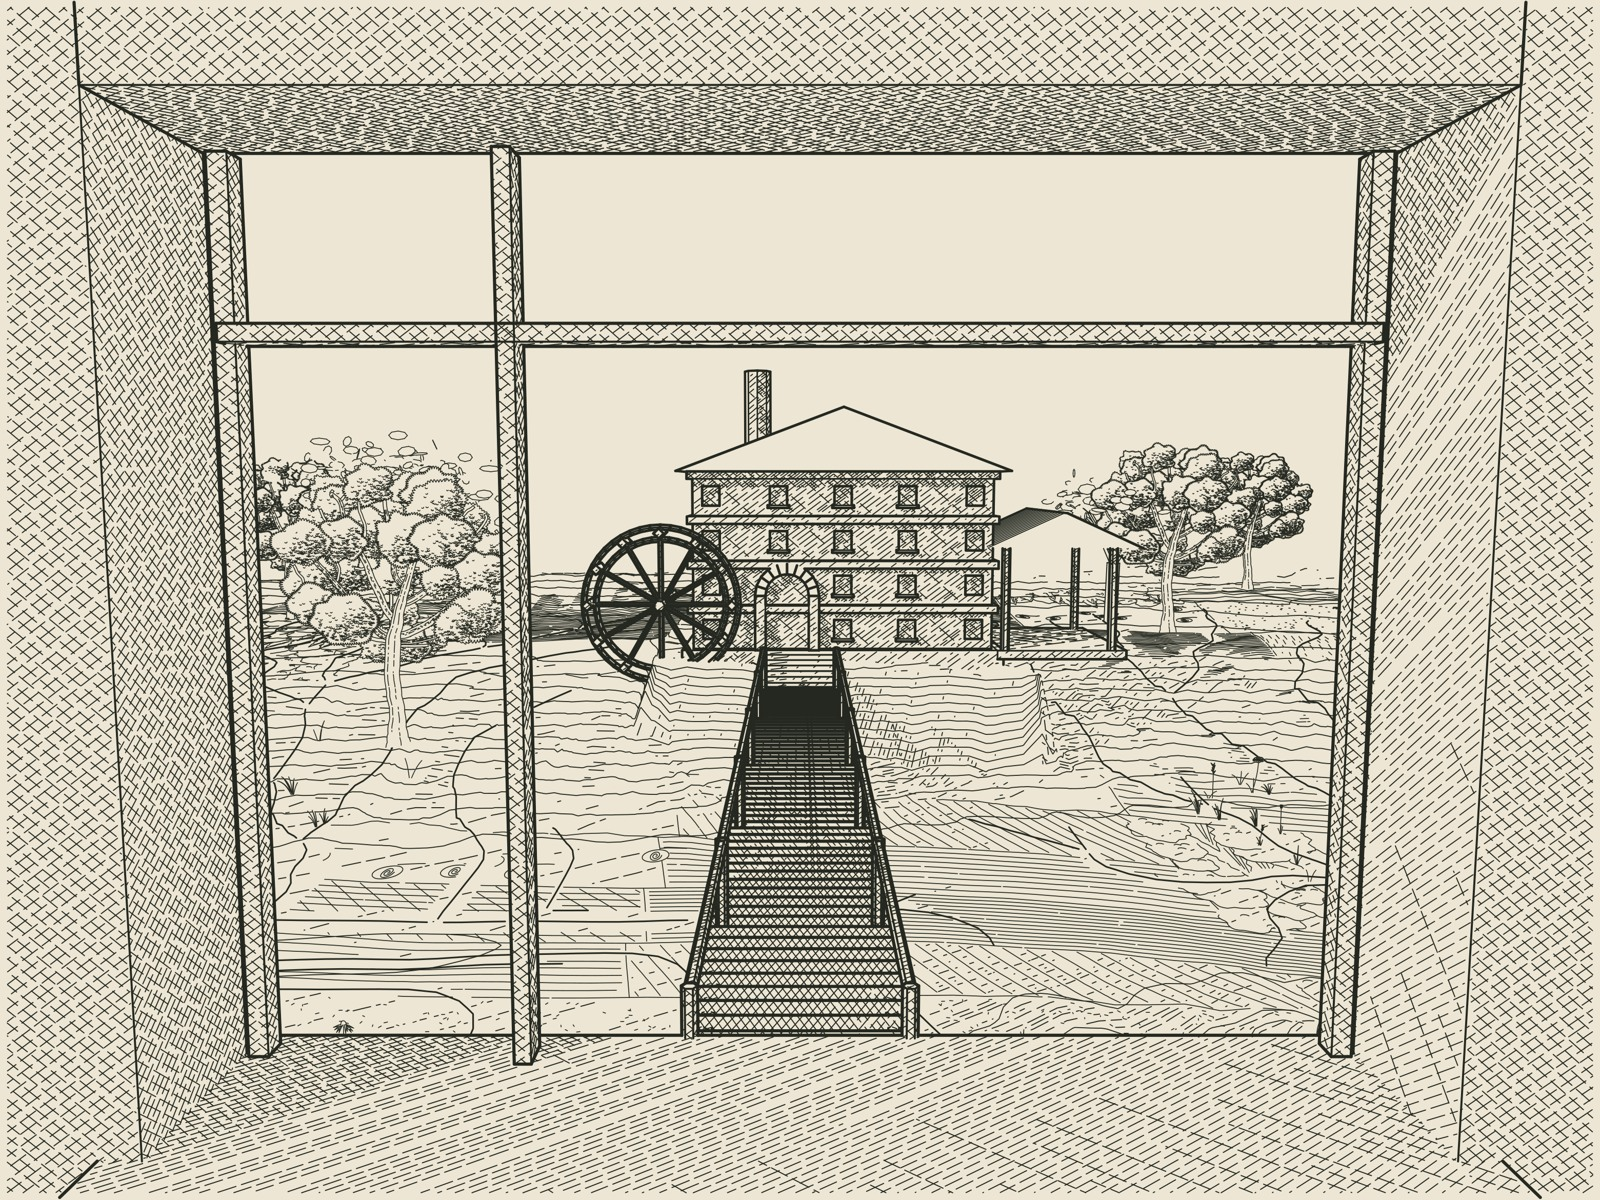
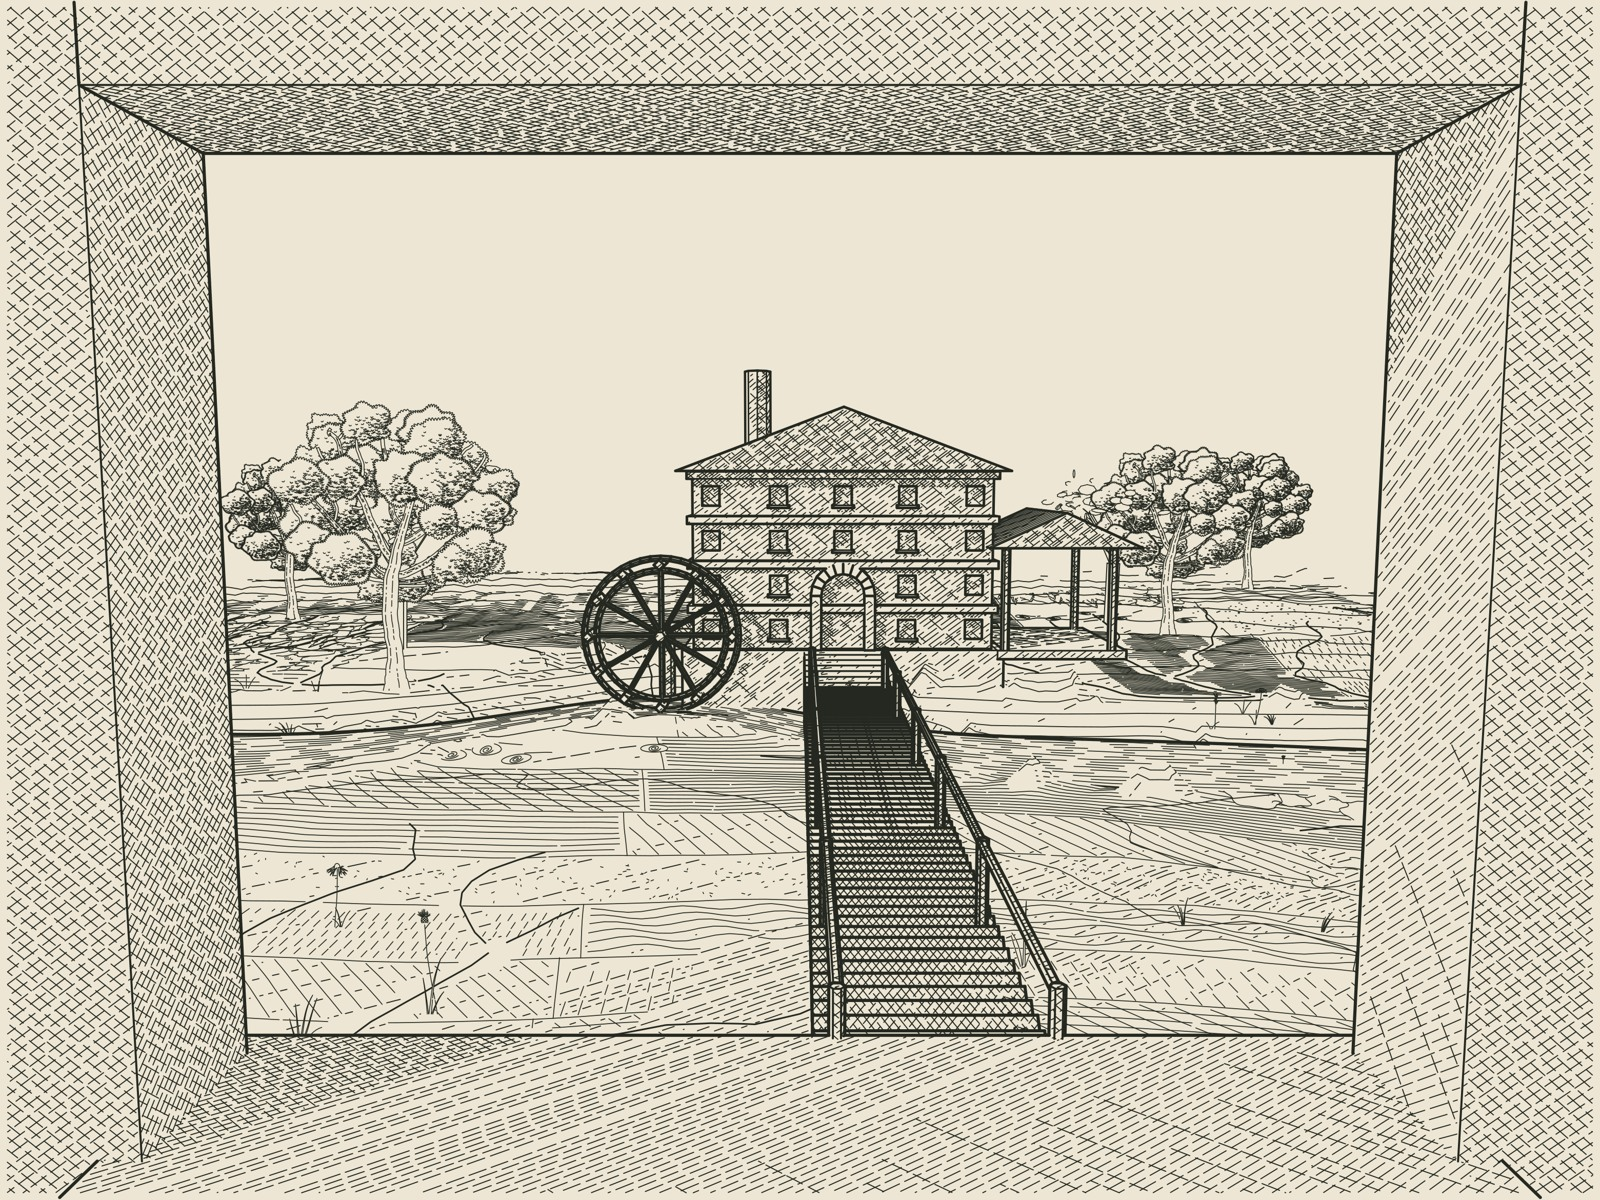
Align mill access, remove sash and put wheel in a visible stream

diff --git a/studies/infernal-landscape/window.py b/studies/infernal-landscape/window.py
@@ -7,6 +7,17 @@ import numpy as np
 
 CAMERAS=[('main',(0,-13,7.8),(0,15,5),2300.),
          ('low',(.45,-13.3,7.5),(0,15,5),2300.)]
+DOOR_X=1.0
+WHEEL_X,WHEEL_Y=-3.2,14.05
+
+def river_y(x):
+    x=np.asarray(x)
+    return 8.8+5.25*np.exp(-((x+3.2)/4.3)**2)+.6*np.sin((x+3.2)*.2)
+
+def water_z(x):return 2.55-.020*(np.asarray(x)+3.2)
+
+def river_width(x):return 1.55+.70*(1-np.exp(-((np.asarray(x)+3.2)/6)**2))
+
 PLANAR_TREES=[(-9,13,6.5),(11,22,5.8),(-16,24,5.2),(16,29,5)]
 
 
@@ -19,12 +30,23 @@ def prepare(out):
     x=np.linspace(-30,30,145);y=np.linspace(-20,44,153);xx,yy=np.meshgrid(x,y)
     rng=np.random.default_rng(615)
     # Declared initial valley; the D8 process adds tributary incision.
-    axis=5.5+1.8*np.sin(xx*.14)
+    axis=river_y(xx)
     h=3.1+.030*yy+.18*np.sin(xx*.29+yy*.14)
     h+=2.9*np.exp(-((yy-29-.10*xx)/4.8)**2)
-    h-=2.6*np.exp(-((yy-axis)/2.1)**2)
+    distance=abs(yy-axis)
+    bed=water_z(xx)-.42
+    blend=np.clip((2.5-distance)/1.1,0,1)
+    h=h*(1-blend)+np.minimum(h,bed)*blend
     h+=gaussian_filter(rng.normal(0,.20,xx.shape),.7)
-    fixed=(abs(xx-1)<4.7)&(abs(yy-17)<3.8)
+    # Protect the wet channel and its shoulders, plus the actual mill pad.
+    # The water level is a composed illustration datum, not a fluid solver.
+    fixed=(abs(xx-1)<3.8)&(yy>14.3)&(yy<20)
+    wet=distance<river_width(xx)+.55
+    h[wet]=np.minimum(h[wet],np.broadcast_to(water_z(xx)-.42,h.shape)[wet])
+    shoulder=(distance>=river_width(xx)+.55)&(distance<river_width(xx)+2.)
+    bench=water_z(xx)+.10+.35*(distance-river_width(xx)-.55)
+    h[shoulder]=np.minimum(h[shoulder],bench[shoulder])
+    fixed|=distance<river_width(xx)+2.1
     fixed|=(abs(xx)<5)&(yy< -4)
     state=erode_heightfield(h,steps=70,incision=.12,diffusion=.028,fixed_mask=fixed)
     state.update(x=x,y=y,steps=np.asarray(70),seed=np.asarray(615))
@@ -33,47 +55,58 @@ def prepare(out):
 
 def build_scene(A,T):
     box,beam,ink,mesh,arch,ground=(T[k] for k in ('box','beam','ink','mesh','arch','terrain_z'))
+    def roof(name,x,y,z,w,d,rise):
+        # Outward winding fixes both the visible gable and sloping roof normals.
+        p=[(x-w/2,y-d/2,z),(x+w/2,y-d/2,z),(x,y-d/2,z+rise),
+           (x-w/2,y+d/2,z),(x+w/2,y+d/2,z),(x,y+d/2,z+rise)]
+        ob=mesh(name,p,[(0,1,2),(3,5,4),(0,2,5,3),(1,4,5,2)],4)
+        for q in np.linspace(-d/2+.13,d/2-.13,max(3,int(d/.30))):
+            ink(name+' standing seam',[(x-w/2,y+q,z+.018),(x,y+q,z+rise+.018),(x+w/2,y+q,z+.018)],.10)
+        return ob
     # One task: duration repeats complete storeys in the mill body.
     x,y=1.,17.;z=float(ground(x,y))+.1;w,d=7.,5.
     box('mill foundation',(x-w/2-.25,y-d/2-.25,z-1.8),(x+w/2+.25,y+d/2+.25,z))
     h=T['story_nodes']('mill',x,y,z,w,d,A['nodes'][0]['bays'])
     for floor in range(A['nodes'][0]['bays']):
         for dx in (-1.5,0,1.5):
-            if floor<2 and dx==-1.5:continue
+            if floor<2 and dx==0:continue
             Z=z+floor*1.04
             box('mill inner window',(x+dx-.20,y-d/2-.045,Z+.24),(x+dx+.20,y-d/2-.028,Z+.69),2)
             box('mill window sill',(x+dx-.25,y-d/2-.10,Z+.19),(x+dx+.25,y-d/2-.015,Z+.25))
-    T['roof']('mill roof',x,y,z+h,w+.7,d+.7,1.45)
-    arch('mill door',x-1.3,y-d/2-.14,z,1.25,1.9)
+    roof('mill roof',x,y,z+h,w+.7,d+.7,1.45)
+    arch('mill door',DOOR_X,y-d/2-.14,z,1.25,1.9)
     # Slate loading canopy, held by timber columns, projects from the right.
     box('mill loading deck',(4.6,14.2,z-.20),(7.6,18.5,z))
     for X in (4.8,7.3):
         for Y in (14.4,18.2):beam('mill porch post',(X,Y,z-.1),(X,Y,z+2.4),.09)
-    T['roof']('mill porch roof',6.1,16.4,z+2.4,3.5,4.9,.8)
+    roof('mill porch roof',6.1,16.4,z+2.4,3.5,4.9,.8)
     beam('mill chimney',(-1.1,18.1,z+h-.4),(-1.1,18.1,z+h+2.6),.33,3,8)
     # A wheel in the XZ plane, with axle and pedestal. Rings are solid meshes.
-    cx,cy,cz=-3.2,14.05,z+1.1
+    cx,cy=WHEEL_X,WHEEL_Y
+    cz=float(water_z(cx))+1.73
     for r in (1.5,1.78):
         ts=np.linspace(0,2*np.pi,49)
         for a,b in zip(ts,ts[1:]):
             beam('mill wheel rim',(cx+r*np.cos(a),cy,cz+r*np.sin(a)),(cx+r*np.cos(b),cy,cz+r*np.sin(b)),.055,2,4)
-    beam('mill wheel axle',(cx,cy-.4,cz),(cx,16.5,cz),.13)
+    beam('mill wheel axle',(cx,cy-.4,cz),(cx,15.4,cz),.13)
+    beam('mill wheel bearing bracket',(cx,15.4,cz),(-2.2,15.4,cz),.16)
+    beam('mill wheel bearing pier',(cx,15.4,float(ground(cx,15.4))-.3),(cx,15.4,cz),.15,1,6)
     for a in np.arange(12)*np.pi/6:
         beam('mill wheel spoke',(cx,cy,cz),(cx+1.7*np.cos(a),cy,cz+1.7*np.sin(a)),.045)
         p=np.array([cx+1.65*np.cos(a),cy,cz+1.65*np.sin(a)])
         beam('mill wheel paddle',p+[0,-.4,0],p+[0,.4,0],.11,2,4)
     # Footbridge crosses the actual lowered channel; supports reach ground.
-    for X in (-.75,.75):
+    for X in (DOOR_X-.75,DOOR_X+.75):
         beam('Bridge stringer',(X,-5.3,3.4),(X,11.2,3.4),.10)
         beam('Bridge railing',(X,-5.3,4.35),(X,11.2,4.35),.045)
         for Y in (-5.3,-2,1.4,4.5,8,11):
             beam('Bridge upright',(X,Y,float(ground(X,Y))-.25),(X,Y,4.4),.055)
-    for Y in np.arange(-5.3,11.2,.27):beam('Bridge plank',(-.9,Y,3.47),(.9,Y,3.47),.09,2,4)
+    for Y in np.arange(-5.3,11.2,.27):beam('Bridge plank',(DOOR_X-.9,Y,3.47),(DOOR_X+.9,Y,3.47),.09,2,4)
     # Supported approach steps continue the bridge to the entrance.
     for i,Y in enumerate(np.arange(11.2,14.5,.45)):
         top=3.52+(z-3.52)*i/7
-        box('mill approach step',(-.9,Y,float(ground(0,Y))-.3),(.9,Y+.46,max(top,float(ground(0,Y))+.08)))
-    # Deep window opening. Asymmetric reveal, single vertical sash at left.
+        box('mill approach step',(DOOR_X-.9,Y,float(ground(DOOR_X,Y))-.3),(DOOR_X+.9,Y+.46,max(top,float(ground(DOOR_X,Y))+.08)))
+    # Deep stone opening, with the interior timber sash removed.
     # Wall and sill extend outside the frame; each is solid, ray-tested masonry.
     for label,lo,hi in [
         ('left jamb',(-7,-6.8,1),(-3.65,-5.55,12)),
@@ -81,14 +114,34 @@ def build_scene(A,T):
         ('head',(-3.65,-6.8,9.8),(3.65,-5.55,13)),
         ('sill',(-3.9,-7.3,3.6),(3.9,-5.3,4.05))]:
         box('Window '+label,lo,hi,1)
-    for X in (-3.55,3.55):box('Window timber lining',(X-.065,-5.6,4.05),(X+.065,-5.42,9.8),2)
-    # Thin transom and mullion give an explicit adversarial occlusion target.
-    box('Window mullion',(-1.85,-5.7,4.05),(-1.74,-5.45,9.8),2)
-    box('Window transom',(-3.55,-5.7,8.65),(3.55,-5.45,8.76),2)
     # Coarse stone courses belong only to the window reveal, not to the view.
     for Z in np.arange(4.3,9.7,.47):
         ink('Window left mortar',[(-3.66,-6.78,Z),(-3.66,-5.56,Z)],.10)
         ink('Window right mortar',[(3.66,-6.78,Z),(3.66,-5.56,Z)],.10)
+    # A continuous water surface occupies the cut channel, occludes ground
+    # marks and carries broken, flow-aligned engraving strokes.
+    import bpy
+    mat=bpy.data.materials.new('IE | Stream water');mat.diffuse_color=(.22,.39,.43,1)
+    mat.use_nodes=True;bsdf=mat.node_tree.nodes.get('Principled BSDF')
+    bsdf.inputs['Base Color'].default_value=mat.diffuse_color
+    bsdf.inputs['Roughness'].default_value=.3
+    T['MATERIALS'].append(mat);T['COLORS'].append('#385f6b')
+    xs=np.linspace(-26,25,221);ys=river_y(xs);zs=water_z(xs);ws=river_width(xs)
+    verts=np.vstack([np.c_[xs,ys-ws,zs],np.c_[xs,ys+ws,zs]])
+    mesh('Stream water surface',verts,[(i,i+1,i+222,i+221) for i in range(220)],7,False)
+    rng=np.random.default_rng(611)
+    for off in np.linspace(-.86,.86,17):
+        start=-25.+rng.uniform(0,1)
+        while start<24:
+            end=min(24,start+rng.uniform(.35,1.25));q=np.linspace(start,end,12)
+            ink('Stream flow ripple',np.c_[q,river_y(q)+off*river_width(q)+.025*np.sin(q*4+off*7),water_z(q)+.025],.085)
+            start=end+rng.uniform(.25,.8)
+    for side in (-1,1):
+        ink('Stream bank waterline',np.c_[xs,ys+side*ws,zs+.025],.12)
+    # Small broken arcs at the immersed lower paddles indicate the wheel's contact.
+    for j in range(5):
+        q=np.linspace(-.35,.35,24)
+        ink('Wheel wake',np.c_[cx+.3+j*.23+q,cy-.45-j*.07+.06*np.cos(q*8),water_z(cx+.3+j*.23+q)+.032],.10)
     T['oak']('Volume oak west',-11,19,6.7,614)
     T['oak']('Volume oak east',9.8,24,5.8,617)
     return {'mill':z+h},{'mill':(x,y,z)},[[-3,13.9,7.9,20.4]],[]

diff --git a/studies/infernal-landscape/window_checks.py b/studies/infernal-landscape/window_checks.py
@@ -10,16 +10,27 @@ for prefix in ('surface','hatch'):
     record(prefix+'_visible',seen.all(),samples=len(a),violations=int((~seen).sum()))
 p=np.load(B.OUT/'plants-audit-main.npz')
 record('plant_ownership',not (p['nearest_depth']<p['owner_depth']-M.EPS_PLANT).any(),samples=len(p['xy']))
-# Deliberately put marks behind the jamb, mullion and transom. The marks are
-# on the same camera rays as those physical blockers, beyond the entire window.
-fixtures=[('left_jamb',[-4.0,-6.1,6]),('right_jamb',[4.,-6.1,6]),
-          ('mullion',[-1.795,-5.56,6]),('transom',[1.,-5.56,8.70])]
+# Marks behind the masonry remain hidden; the removed timber leaves open rays.
+fixtures=[('left_jamb',[-4.,-6.1,6]),('right_jamb',[4.,-6.1,6]),
+          ('head',[0.,-6.1,10.5]),('sill',[0.,-6.1,3.8])]
 for name,q in fixtures:
     p=B.EYE+2.5*(np.asarray(q)-B.EYE)
     record('reject_mark_behind_'+name,not B.visible(p[None,:],*B.BVH[:6])[0])
-# A sightline through the open right pane must remain open up to the landscape.
-p=np.array([[1.,-5.1,7.]])
-record('open_pane_is_open',B.visible(p,*B.BVH[:6])[0])
+for name,p in [('opening',[1.,-5.1,7.]),('former_mullion',[-1.795,-5.1,6.]),('former_transom',[1.,-5.1,8.7])]:
+    record(name+'_is_open',B.visible(np.asarray([p]),*B.BVH[:6])[0])
+record('timber_frame_removed',not any(n.startswith(('Window timber','Window mullion','Window transom')) for n in B.D['names']))
+from window import DOOR_X,WHEEL_X,WHEEL_Y,river_y,water_z
+steps=np.vstack([f['p'] for f in B.FACES if f['name'].startswith('mill approach step')])
+door=np.vstack([f['p'] for f in B.FACES if f['name'].startswith('mill door')])
+record('stairs_centered_on_door',abs((steps[:,0].min()+steps[:,0].max())/2-(door[:,0].min()+door[:,0].max())/2)<1e-5)
+roof_ids=[i for i,n in enumerate(B.D['names']) if n=='mill porch roof']
+roof_normals=np.asarray(B.D['normals'])[roof_ids]
+record('porch_roof_outward_normals',len(roof_ids)==4 and roof_normals[0,1]<-.99 and (roof_normals[2:,2]>0).all())
+wheel=np.vstack([f['p'] for f in B.FACES if f['name'].startswith('mill wheel rim')])
+water_level=float(water_z(WHEEL_X))
+record('wheel_intersects_stream',abs(float(river_y(WHEEL_X))-WHEEL_Y)<1e-5 and wheel[:,2].min()<water_level and wheel[:,2].min()>water_level-.2,immersion=float(water_level-wheel[:,2].min()))
+q=np.linspace(-15,14,101);river=np.c_[q,river_y(q),water_z(q)+.02]
+seen=B.visible(river,*B.BVH[:6]);record('stream_visible',int(seen.sum())>20,visible_samples=int(seen.sum()))
 native=json.loads((B.OUT/'blender-checks.json').read_text())
 record('native_camera',native['native_camera_max_error_px']<.002,error_px=native['native_camera_max_error_px'])
 bridge=np.vstack([f['p'] for f in B.FACES if f['name'].startswith('Bridge stringer')])

diff --git a/studies/infernal-landscape/WINDOW.md b/studies/infernal-landscape/WINDOW.md
@@ -2,9 +2,9 @@
 
 ![A mill seen through a stone window](output/window-preview.jpg)
 
-A close interior-to-exterior plate combining evaluated Blender geometry,
+A revised interior-to-exterior plate combining evaluated Blender geometry,
 Driftless oak and meadow strokes, D8 catchment erosion and print-sized engraved
-hatching. The deep limestone jambs, sill, timber mullion and transom are real
+hatching. The deep limestone jambs and sill are real
 geometry in the same visibility model as the landscape. There is no image mask
 or flat window overlay. Looking through the aperture reveals a mill with a
 waterwheel, a supported loading canopy, a footbridge and an incised coulee.
@@ -13,6 +13,14 @@ The single synthetic task's duration repeats four complete mill storeys through
 Geometry Nodes. It has no dependency edges, so this plate has no red scheduling
 route. The wheel and surrounding architecture are compositional additions,
 not measurements or outputs of the scheduling model.
+
+The stairs and footbridge share the front doorway’s centreline. The inner
+timber frame is removed. Both roof slopes and gables have outward-facing
+normals, so the porch gable and slate surfaces receive engraving. The wheel’s
+lower rim intersects a continuous, curved stream surface; broken flow lines
+and a small wake make the water legible. The stream follows a deliberately
+cut and protected channel, with a composed water level rather than a fluid
+simulation. Its geometry hides terrain strokes beneath the water.
 
 `window.py` declares a broad initial valley and ridge, then runs seventy erosion
 iterations using `lib/process_art/terrain.py`. Tributary channels and contours
@@ -45,7 +53,8 @@ or window clipping mask. It uses the existing 0.10 mm hatch, 0.22 mm minimum
 hatch gap, 0.25 mm silhouette, 0.16 mm crease and 0.08 mm foliage widths.
 The independent Blender audit samples delivered terrain and hatch points.
 `window_checks.py` also injects adversarial marks behind all four window
-blockers and checks an unobstructed pane sightline. These are sampled checks;
+masonry blockers and checks the opening and former timber sightlines. It also
+checks doorway alignment, roof normals, wheel immersion and visible stream samples. These are sampled checks;
 they do not prove visibility at every infinitesimal point.
 
 ## Credits
